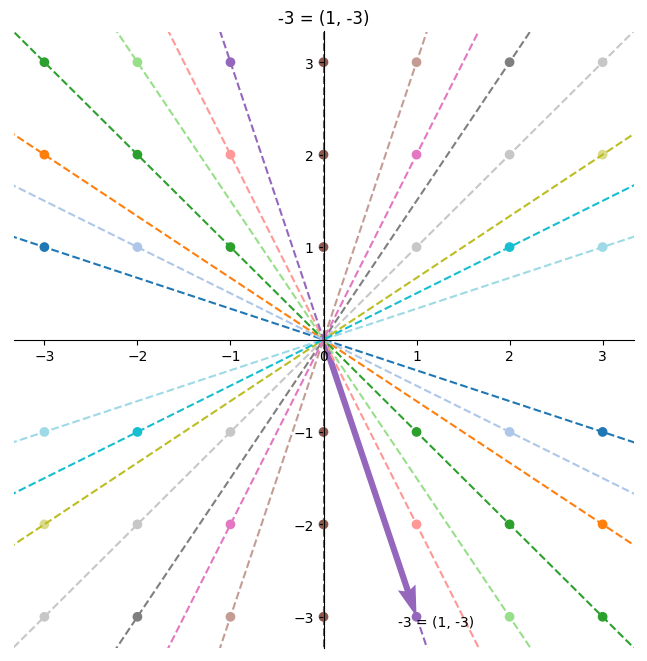
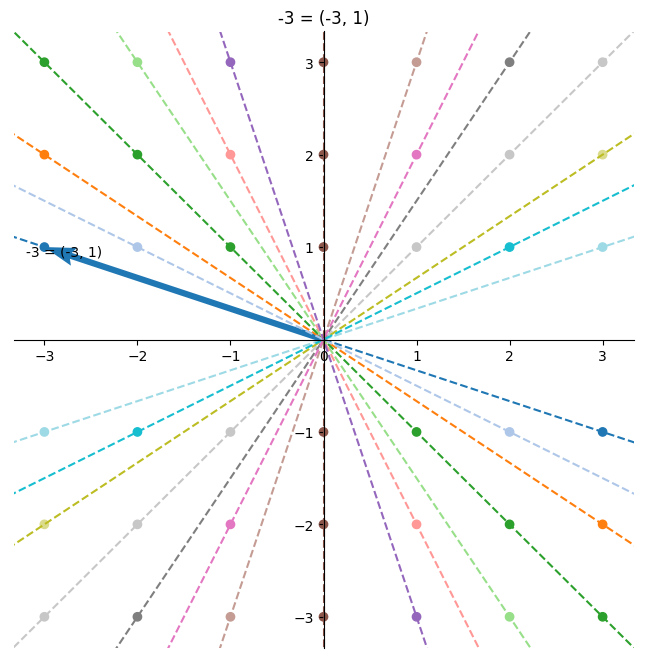
working

diff --git a/viz.py b/viz.py
@@ -117,27 +117,17 @@ ax.set_ylim(old_axis[1])
 plt.savefig("output/Qaxis.png", bbox_inches='tight')
 
 #arithmetic
-# plt.figure(figsize=figure_size)
-# ax = plt.subplot(111)
-# plt.title("Z x Z \ {0}")
-# plt.xticks(data)
-# plt.yticks(no_zero)
-# ax.spines['right'].set_visible(False)
-# ax.spines['top'].set_visible(False)
-# ax.spines['bottom'].set_position('center')
-# ax.spines['left'].set_position('center')
-
 plt.title("Arithmetic in Z:  -3 / 2 = -1 + -(1/2)")
 plt.savefig("output/start.png", bbox_inches='tight')
 
 #too lazy to figure out matplotlib animation
 images =[imageio.imread('output/start.png')]
-vectors = [ (1, -3, 8, '-3 = (1, -3)'),
-            (1, 2, 12, '2 = (1, 2)'),
-            (2, -3, 5, '-3 / 2  = (1*2, 1*-3)'),
-            (1, -1, 4, '-1 = (1, -1)'),
-            (2, -1, 1, '-1/2 = (2, -1)'),
-            (-2, 3, 5, '-1 + -1/2 = (1*-1 + -1*2, -1*-1) = -3/2')]
+vectors = [ (-3, 1, 0, '-3 = (-3, 1)'),
+            (2, 1, 18, '2 = (2, 1)'),
+            (-3, 2, 2, '-3 / 2  = (-3*1, 1*2)'),
+            (-1, 1, 4, '-1 = (-1, 1)'),
+            (-2, 1, 1, '-1/2 = (1, -2)'),
+            (3, -2, 2, '-1 + -1/2 = (-1*-2 + 1*1, -2*1) = -3/2')]
 
 for i, (_, _, _, title) in enumerate(vectors):
     for j in range(i+1):
